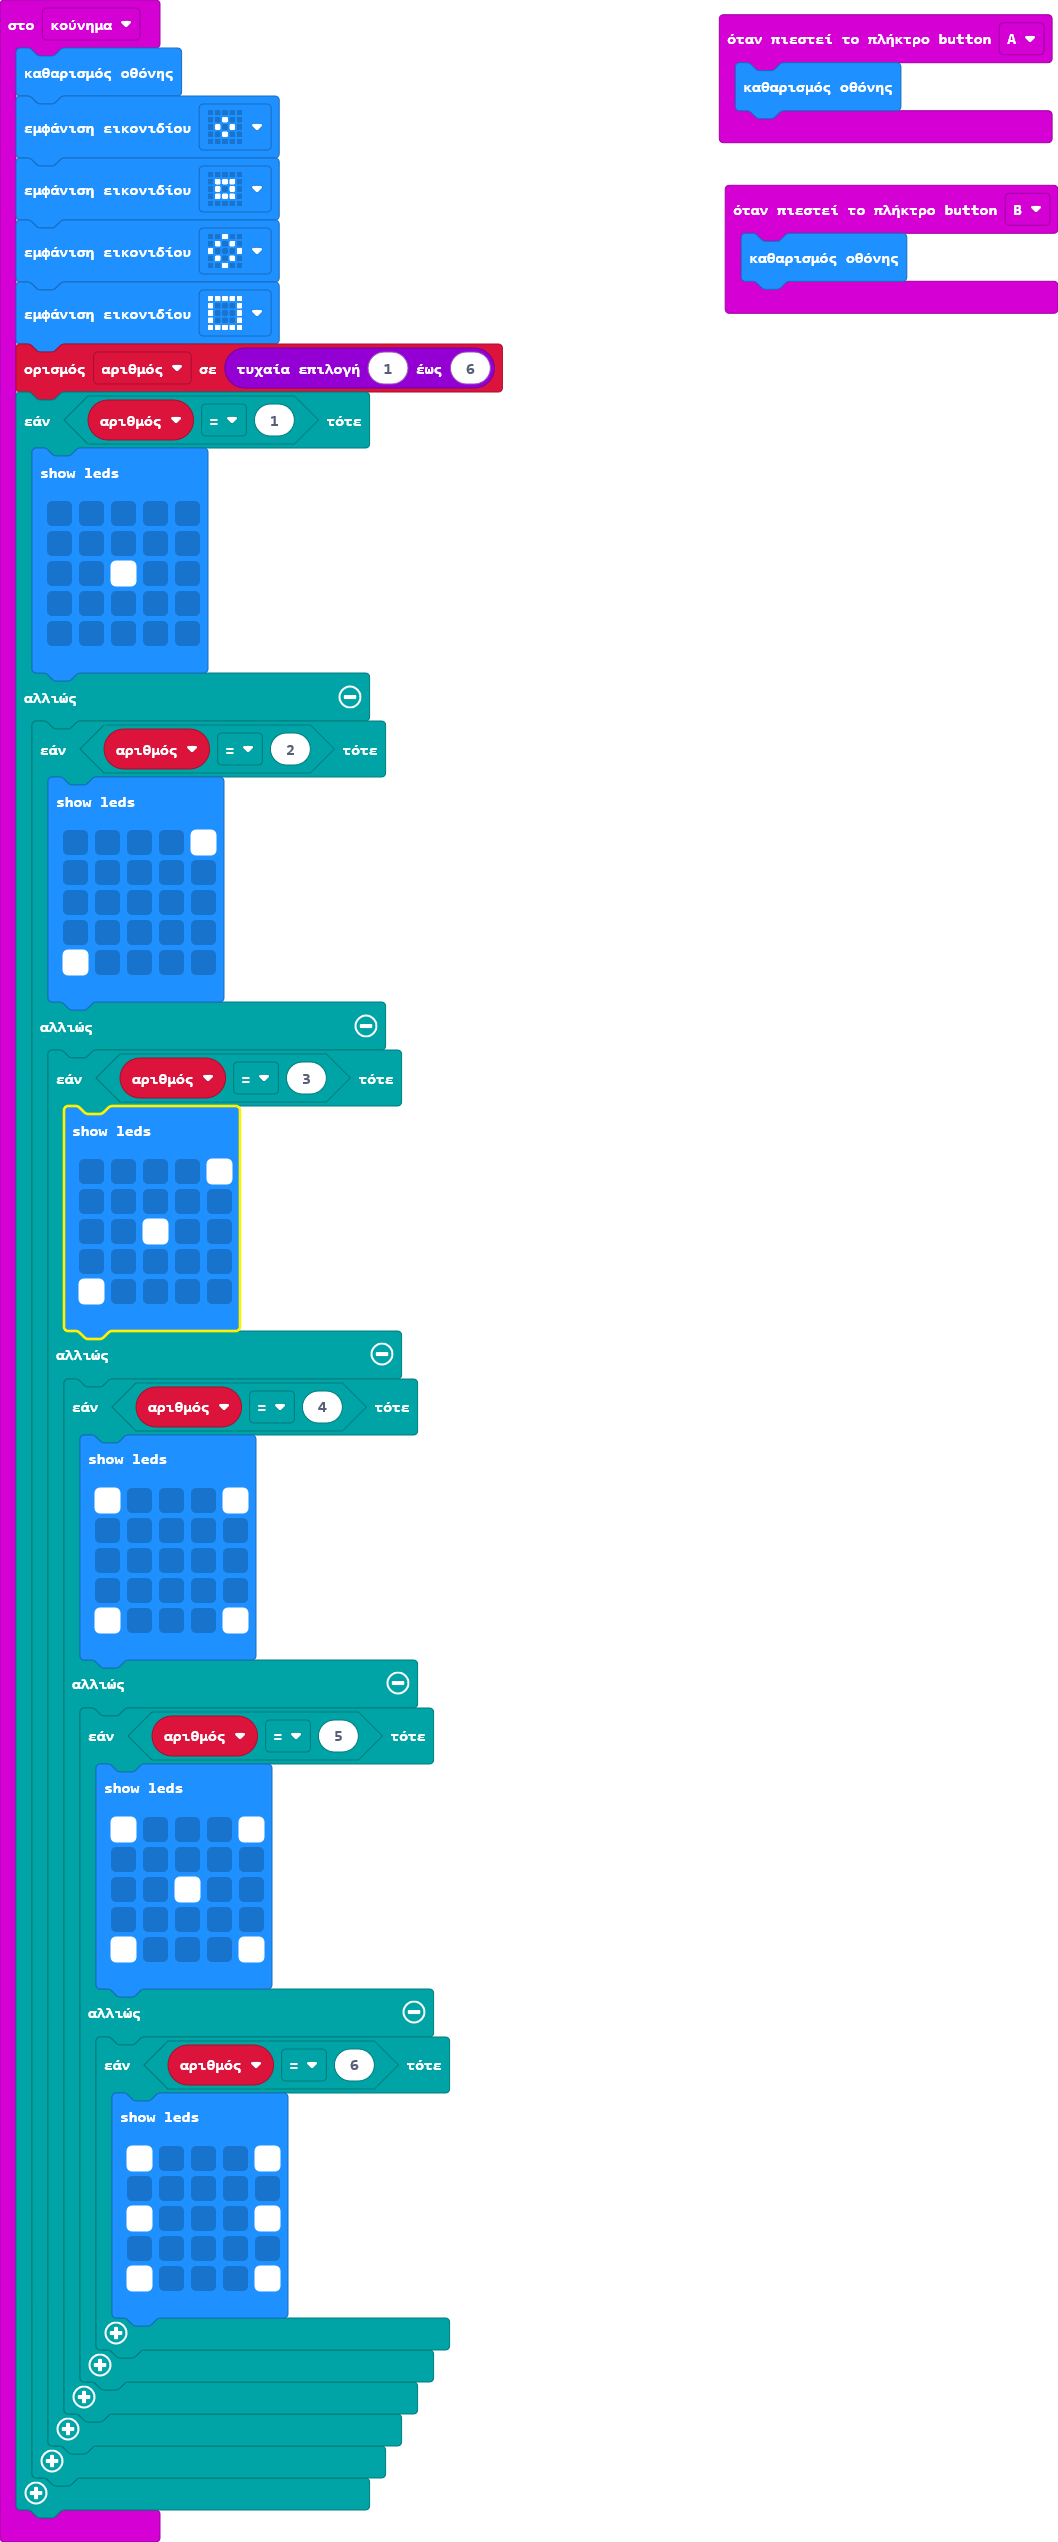
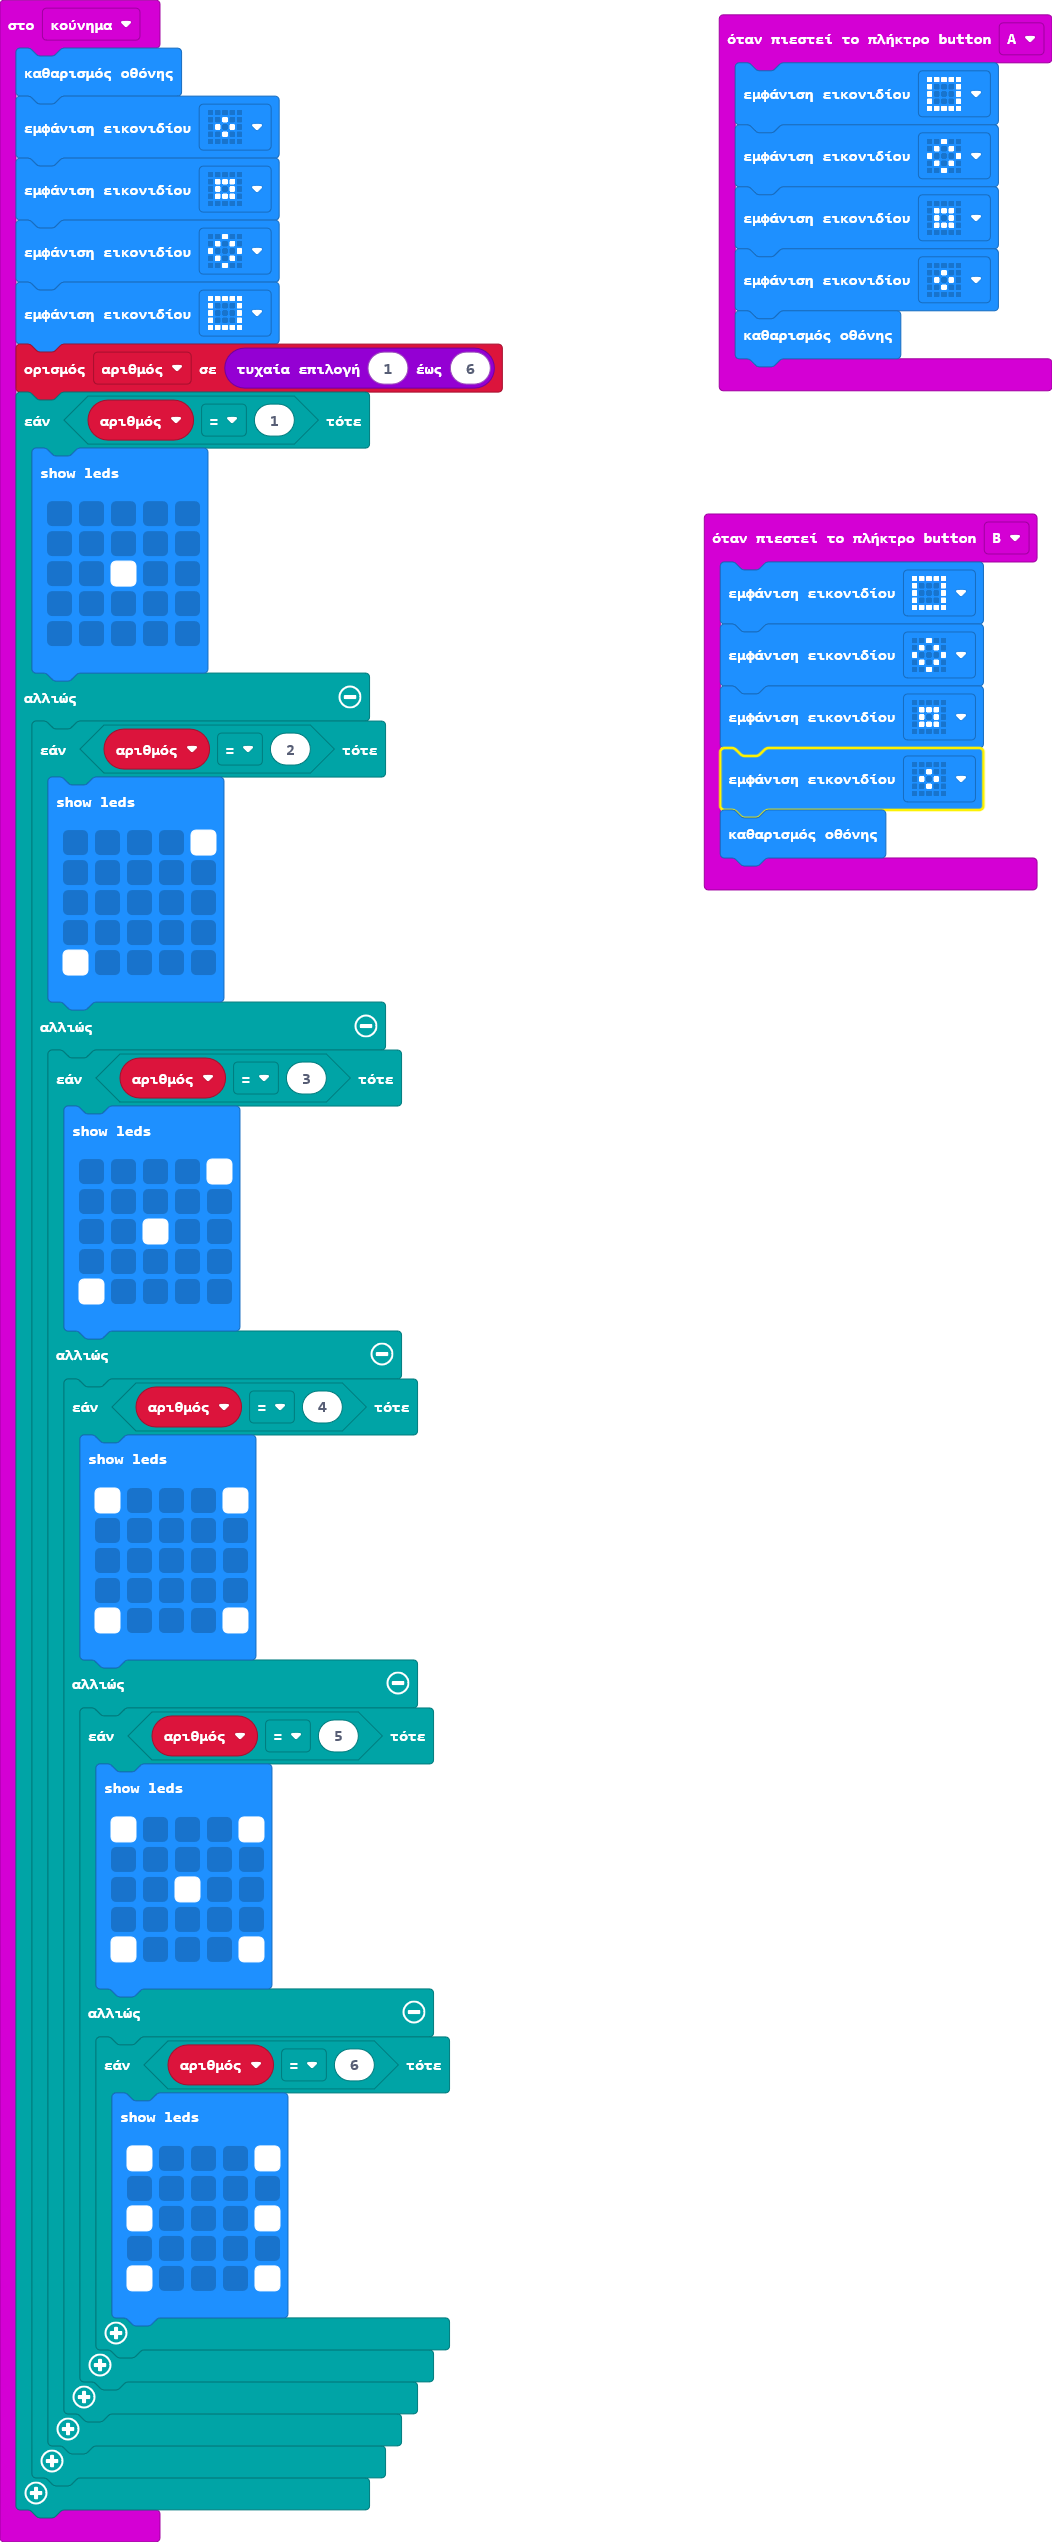
Ενημέρωση main.blocks, main.ts

diff --git a/main.ts b/main.ts
@@ -67,8 +67,16 @@ input.onGesture(Gesture.Shake, function () {
     }
 })
 input.onButtonPressed(Button.A, function () {
+    basic.showIcon(IconNames.Square)
+    basic.showIcon(IconNames.Diamond)
+    basic.showIcon(IconNames.SmallSquare)
+    basic.showIcon(IconNames.SmallDiamond)
     basic.clearScreen()
 })
 input.onButtonPressed(Button.B, function () {
+    basic.showIcon(IconNames.Square)
+    basic.showIcon(IconNames.Diamond)
+    basic.showIcon(IconNames.SmallSquare)
+    basic.showIcon(IconNames.SmallDiamond)
     basic.clearScreen()
 })
